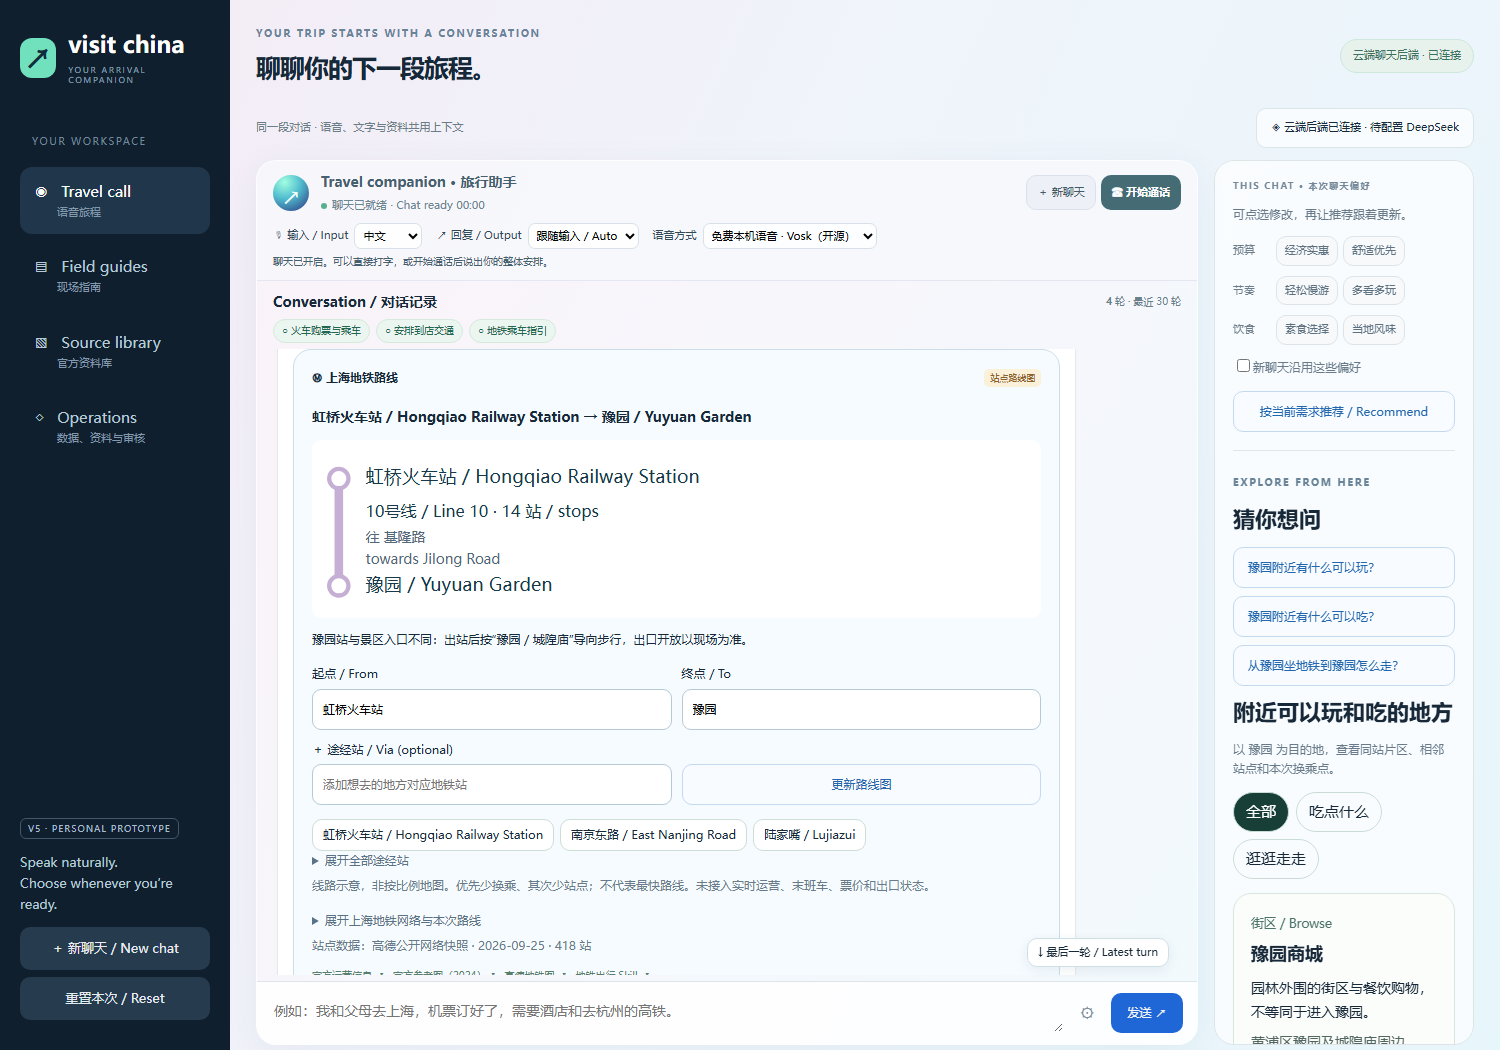
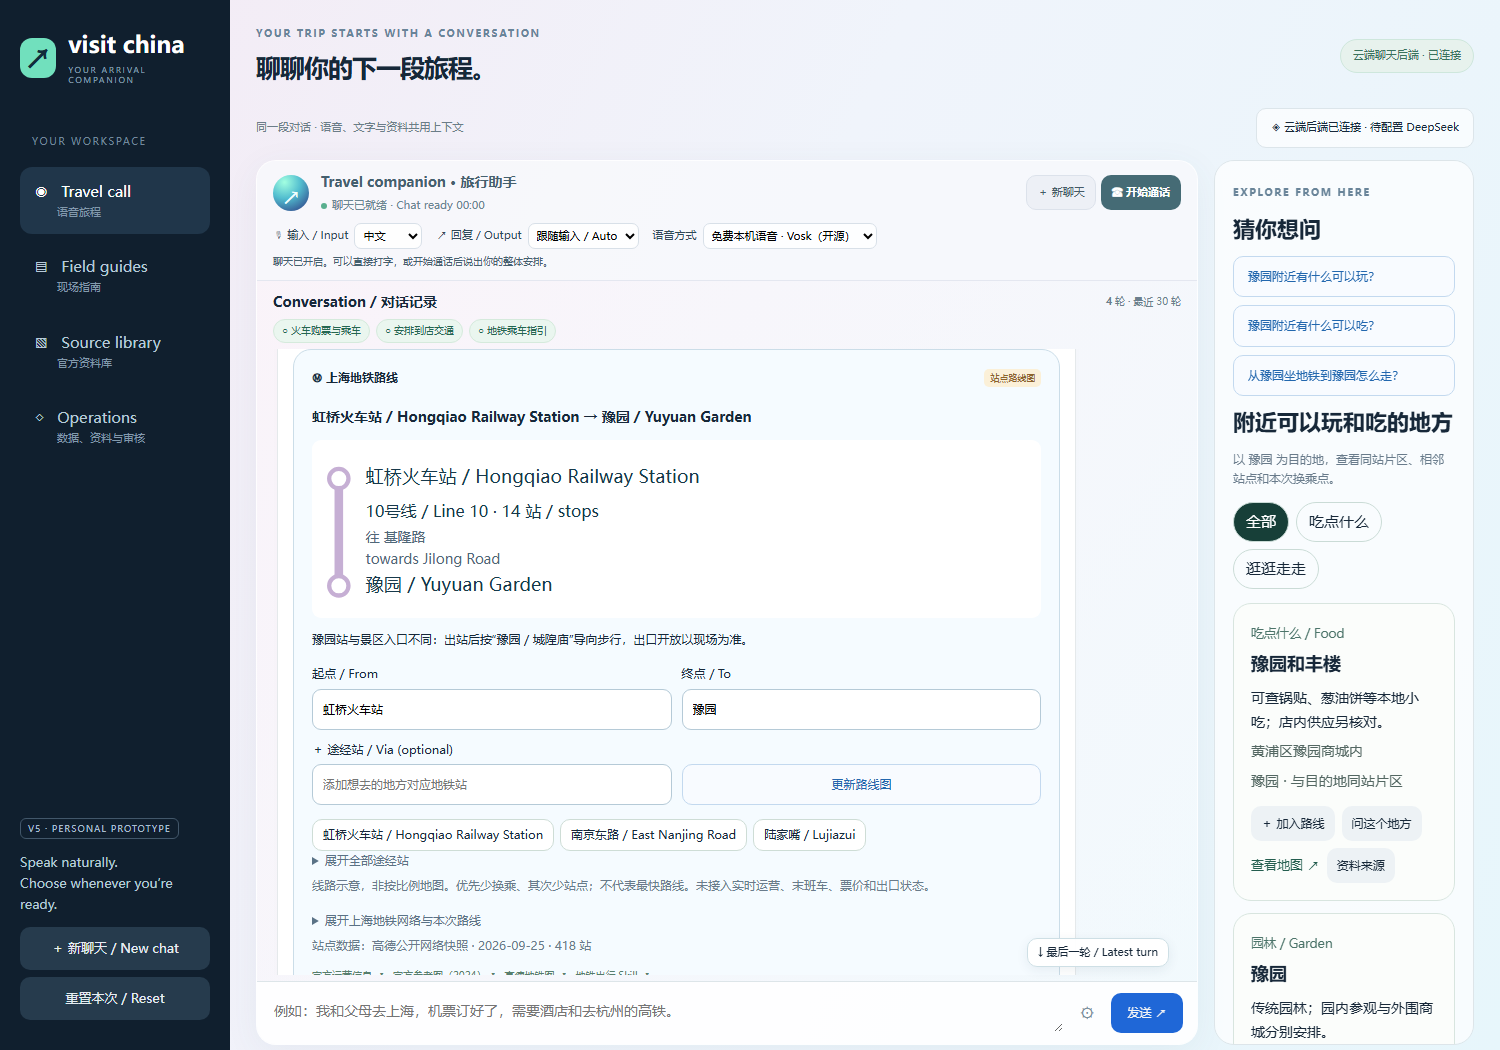
Answer food near named attractions instead of repeating place introductions

Changed region(s): [[0.7973, 0.1524, 0.9813, 1.0]]

diff --git a/v5/discovery-ops.test.js b/v5/discovery-ops.test.js
@@ -2,7 +2,7 @@
 const test=require('node:test'),assert=require('node:assert/strict'),crypto=require('node:crypto'),http=require('node:http');
 const E=require('./engine'),M=require('./metro'),D=require('./discovery'),L=require('./library'),A=require('./assistant'),Q=require('./confidence'),O=require('./operations'),{createOps,catalog}=require('./ops-api'),{verifyGovernment}=require('./source-trust');
 const state=text=>E.apply(E.state({...E.BASE,needsFirst:true}),{type:'text',text});
-test('all 1216 authored and source-adapted cases pass independent route and retrieval invariants',()=>{const r=require('./corpus-eval').evaluateCorpus();assert.ok(r.total>=1000);assert.equal(new Set(r.checks.map(c=>c.input)).size,r.total);assert.equal(r.passed,r.total,JSON.stringify(r.checks.filter(c=>!c.passed)));assert.ok(r.provenance['public-source-adapted']>=100);});
+test('all 1220 authored and source-adapted cases pass independent route and retrieval invariants',()=>{const r=require('./corpus-eval').evaluateCorpus();assert.ok(r.total>=1000);assert.equal(new Set(r.checks.map(c=>c.input)).size,r.total);assert.equal(r.passed,r.total,JSON.stringify(r.checks.filter(c=>!c.passed)));assert.ok(r.provenance['public-source-adapted']>=100);});
 test('catalog exposes all station entities and real referenced places with separate source types',()=>{const r=catalog(O.initial());assert.equal(r.filter(x=>x.recordType==='station').length,418);assert.equal(r.filter(x=>x.recordType==='place').length,19);assert.equal(new Set(r.map(x=>x.id)).size,r.length);assert.equal(L.search('','Shanghai','station').length,418);assert.equal(L.search('','Shanghai','place').length,19);});
 test('nearby destinations are actual covered stations, not arbitrary citywide suggestions',()=>{const route=M.intent('从浦东机场到上海站的地铁怎么做','Shanghai'),s=state('从浦东机场到上海站的地铁怎么做');assert.equal(D.context(s).destination,'上海火车站');const p=D.nearby('上海火车站',route,19,catalog(O.initial()));assert.ok(p.some(x=>x.id==='place-sihang'));assert.ok(p.every(x=>x.stops<=2||x.onRoute));assert.equal(D.nearby('浦东1号2号航站楼',null).length,0);assert.ok(!p.some(x=>x.id==='place-tianzifang'));});
 test('nearby food follow-up preserves destination and never fabricates an opening time',()=>{let s=state('从浦东机场到上海站坐地铁');s=E.apply(s,{type:'text',text:'附近有什么吃的'});const out=D.reply(s.history.at(-1).text,s,catalog(O.initial()));assert.ok(out.sourceIds.includes('place-coffee'));assert.ok(!/营业到|open until|¥/.test(out.text));});
@@ -18,3 +18,5 @@ test('government auto-confirm requires fetched exact text; a government URL or s
 test('admin direct publications retain rollback and concurrent base-version guards',()=>{const s=O.initial(),p=O.propose(s,'admin',{record});O.publishSource(s,p.id,'admin',{mode:'admin-direct',score:80});assert.equal(p.status,'published');assert.equal(p.votes.length,0);assert.ok(catalog(s).some(r=>r.id===p.sourceId));O.rollback(s,p.id,'admin');assert.ok(!catalog(s).some(r=>r.id===p.sourceId));const a=O.propose(s,'admin',{record,sourceId:s.sources[0].id}),b=O.propose(s,'admin',{record,sourceId:s.sources[0].id});O.publishSource(s,a.id,'admin',{mode:'admin-direct'});assert.throws(()=>O.publishSource(s,b.id,'admin',{mode:'admin-direct'}),/STALE_BASE/);});
 test('low confidence review stores bounded route/source material and no raw conversation',()=>{const s=O.initial(),id=O.assessment(s,{text:'private traveler sentence',intent:{kind:'metro'},intentProvider:'deepseek',sourceIds:['sh-metro-map'],tool:{metro:{origin:'浦东1号2号航站楼',destination:'上海火车站'}},confidence:{model:.4,sourceScore:90,requiresReview:true,reasons:['意图自评偏低']}});assert.equal(s.answerAssessments[0].status,'open');assert.ok(!JSON.stringify(s).includes('private traveler sentence'));O.assessmentReview(s,id,'admin','reviewed');assert.equal(s.answerAssessments[0].status,'reviewed');});
 test('HTTP account docs expose names/roles only; admin can publish directly and reviewers cannot impersonate admin',async t=>{const users=Object.fromEntries(['admin','reviewer1'].map(name=>[name,{role:name==='admin'?'admin':'reviewer',salt:'test-salt',hash:crypto.scryptSync('secret-fixture-password','test-salt',32).toString('hex')}]));let saved=O.initial();const store={kind:'test-memory',read:async()=>structuredClone(saved),mutate:async fn=>{const next=structuredClone(saved),result=fn(next);saved=next;return result;}};const server=http.createServer(createOps({env:{OPS_USERS_JSON:JSON.stringify(users),OPS_SESSION_SECRET:'s'.repeat(32)},store,fetcher:async()=>new Response('',{status:404})}));await new Promise(r=>server.listen(0,'127.0.0.1',r));t.after(()=>{server.closeAllConnections();server.close();});const url='http://127.0.0.1:'+server.address().port;let cookie='';async function call(body){const r=await fetch(url+'/api/ops',{method:body?'POST':'GET',headers:{cookie,...(body?{'content-type':'application/json'}:{})},body:body?JSON.stringify(body):undefined});if(r.headers.get('set-cookie'))cookie=r.headers.get('set-cookie').split(';')[0];return{status:r.status,json:await r.json()};}let out=await call();assert.equal(out.json.accounts[0].name,'admin');assert.ok(!/hash|salt|secret-fixture-password/.test(JSON.stringify(out.json)));await call({action:'login',username:'admin',password:'secret-fixture-password'});out=await call({action:'source-submit',record});assert.equal(out.json.status,'published');assert.equal(out.json.requiredApprovals,0);const id=out.json.id;await call({action:'login',username:'reviewer1',password:'secret-fixture-password'});assert.equal((await call({action:'source-publish',id})).status,403);out=await call({action:'source-submit',record:{...record,url:'https://example.com/note'},role:'admin'});assert.equal(out.json.status,'review');assert.ok((await call()).json.evaluationCatalog.total>=1000);});
+
+test('a named attraction in a nearby food question is an anchor, not a request for its introduction',async()=>{for(const text of ['Tell me places to eat near Yuyuan Garden.','豫园附近有什么吃的']){const s=state(text);s.language=text.startsWith('Tell')?'en':'zh';const model={status:()=>({configured:true}),call:async()=>({value:{intent:{kind:'nearby',destination:'Yuyuan Garden',city:'Shanghai'},confidence:.92}})};const out=await A.assist({state:s,model,records:catalog(O.initial())});assert.ok(out.sourceIds.includes('place-hefeng'));assert.ok(!out.sourceIds.includes('place-yuyuan'));}});

diff --git a/v5/discovery.js b/v5/discovery.js
@@ -20,7 +20,7 @@ function nearby(destination,route,limit=6,pool=placeRecords){const to=M.resolve(
 function mapUrl(p){return 'https://uri.amap.com/search?keyword='+encodeURIComponent('上海 '+p.zh+' '+p.address)+'&city=310000&view=map&src=visit-china';}
 function card(p,zh=true){return '<article class="nearby-place" data-place-id="'+p.id+'" data-metric-kind="nearby" data-metric-item="'+p.id+'"><small>'+esc(({food:'吃点什么 / Food',park:'公园 / Park',museum:'博物馆 / Museum',square:'广场 / Square',walk:'漫步 / Walk',art:'艺术 / Art',garden:'园林 / Garden',shopping:'街区 / Browse'})[p.category])+'</small><h3>'+esc(zh?p.zh:p.en)+'</h3><p>'+esc(zh?p.summaryZh:p.summary)+'</p><p class="place-address">'+esc(zh?p.address:p.addressEn)+'</p><p class="place-distance">'+esc(p.station)+' · '+(p.stops===0?(zh?'与目的地同站片区':'Same station area'):p.onRoute&&p.stops>2?(zh?'本次换乘点附近':'Near a transfer on this route'):(zh?'距目的地 '+p.stops+' 个地铁站间区段':'About '+p.stops+' metro stop segments from destination'))+'</p><div class="place-actions"><button class="light" data-place-route="'+p.id+'">'+(zh?'＋ 加入路线':'＋ Add to route')+'</button><button class="light" data-place-ask="'+p.id+'">'+(zh?'问这个地方':'Ask about this place')+'</button><a data-product-kind="nearby" data-product-item="'+p.id+'" href="'+mapUrl(p)+'" target="_blank" rel="noopener noreferrer">'+(zh?'查看地图 ↗':'Map ↗')+'</a><button class="light" data-source-detail="'+p.id+'">'+(zh?'资料来源':'Source')+'</button></div></article>';}
 function questions(state){const c=context(state),zh=state.language==='zh',to=c.destination;if(!to)return zh?['我在人民广场，附近有什么可以逛的？','从浦东机场到上海火车站的地铁怎么坐？']:['What can I visit near People’s Square?','Metro from Pudong Airport to Shanghai Railway Station?'];return zh?[to+'附近有什么可以玩？',to+'附近有什么可以吃？','从'+to+'坐地铁到豫园怎么走？']:[`What can I visit near ${to}?`,`Where can I eat near ${to}?`,`Metro from ${to} to Yuyuan?`];}
-function reply(text,state,pool=placeRecords){const ps=mentioned(text);if(ps.length===1&&!/地铁|怎么去|怎么走|metro|route|how.{0,8}get/i.test(text)){const p=ps[0],r=pool.find(r=>r.id===p.id);if(r&&!r.publicationHash&&r.active!==false&&r.reviewedAt&&Date.now()-Date.parse(r.reviewedAt)<=Number(r.reviewDays||14)*86400000)return{kind:'nearby',text:state.language==='zh'?p.zh+'：'+p.summaryZh+' 地址：'+p.address+'。可从'+p.station+'站继续步行导航；营业、预约和票价请看原文。':p.en+': '+p.summary+' Address: '+p.addressEn+'. Use '+p.station+' as a metro anchor and check walking directions, opening and booking details.',sourceIds:[p.id],places:[p.id]};}
+function reply(text,state,pool=placeRecords){const ps=mentioned(text);if(ps.length===1&&!/附近|周边|nearby|near\s|around|地铁|怎么去|怎么走|metro|route|how.{0,8}get/i.test(text)){const p=ps[0],r=pool.find(r=>r.id===p.id);if(r&&!r.publicationHash&&r.active!==false&&r.reviewedAt&&Date.now()-Date.parse(r.reviewedAt)<=Number(r.reviewDays||14)*86400000)return{kind:'nearby',text:state.language==='zh'?p.zh+'：'+p.summaryZh+' 地址：'+p.address+'。可从'+p.station+'站继续步行导航；营业、预约和票价请看原文。':p.en+': '+p.summary+' Address: '+p.addressEn+'. Use '+p.station+' as a metro anchor and check walking directions, opening and booking details.',sourceIds:[p.id],places:[p.id]};}
  if(!/附近|周边|景点|广场|好玩|吃饭|美食|推荐.{0,8}玩|nearby|near |around|where to eat|places to|sightsee/i.test(text))return null;const c=context(state),food=/吃|美食|饭店|餐厅|food|eat|restaurant/i.test(text),all=nearby(c.destination,c.route,19,pool),p=all.filter(p=>!food||p.category==='food').slice(0,3);const zh=state.language==='zh';return{kind:'nearby',text:!c.destination?(zh?'你想看哪个地铁站或景点附近？告诉我地点，我会按实际收录地点推荐。':'Which station or attraction should I search around?'):!p.length?(zh?'当前资料库还没有'+c.destination+'附近已核对的'+(food?'餐饮':'去处')+'，我不会把其他区域当成附近。可以换个地点，或在资料库补充来源。':'No reviewed '+(food?'food places':'places')+' are currently covered near '+c.destination+'. Choose another area or add a source.'):(zh?'按'+c.destination+'及邻近站点，可以考虑：':'Around '+c.destination+' and nearby stops, consider: ')+p.map(x=>zh?x.zh+'（'+x.station+'）':x.en+' ('+x.station+')').join('；')+(zh?'。下方和右侧可查看真实地址、来源并加入路线。步行距离及当前营业请打开地图核对。':'. View addresses, sources and add a stop below or on the right. Check walking directions and current opening on the map.'),sourceIds:p.map(p=>p.id),places:p.map(p=>p.id)};
 }
 return{records,placeRecords,stationRecords,stationId,places:P.places,context,nearby,card,questions,reply,mentioned,stationForPlace,mapUrl};

diff --git a/v5/discovery_browser_test.py b/v5/discovery_browser_test.py
@@ -41,8 +41,8 @@ try:
   for key,value in fields.items():page.locator('#ops-source-form [name='+key+']').fill(value)
   page.locator('#ops-source-form button').click();expect(page.locator('#ops-source-note')).to_contain_text('已发布');page.locator('#ops-source-close').click();page.locator('[data-ops-tab=reviews]').click();expect(page.locator('#ops-content')).to_contain_text('管理员直接发布');check('administrator submission publishes immediately and exposes review materials')
   page.locator('.ops-review .ops-materials summary').last.click();expect(page.locator('.ops-review .ops-materials').last).to_contain_text('admin-direct');check('publication proof and base-version material visible')
-  page.locator('[data-ops-tab=evaluation]').click();expect(page.locator('#ops-content')).to_contain_text('1216');expect(page.locator('#ops-content')).to_contain_text('184');check('loop shows provenance, corpus version and downloadable full cases')
-  page.locator('#ops-run-eval').click();expect(page.locator('#ops-content')).to_contain_text('1226 / 1226',timeout=30000);check('entire corpus and historical scenarios run from Operations')
+  page.locator('[data-ops-tab=evaluation]').click();expect(page.locator('#ops-content')).to_contain_text('1220');expect(page.locator('#ops-content')).to_contain_text('184');check('loop shows provenance, corpus version and downloadable full cases')
+  page.locator('#ops-run-eval').click();expect(page.locator('#ops-content')).to_contain_text('1230 / 1230',timeout=30000);check('entire corpus and historical scenarios run from Operations')
   page.screenshot(path=str(OUT/'operations-loop-desktop.png'),full_page=True)
   page.locator('#ops-signout').click();page.locator('#ops-close').click();page.locator('#nav-call').click();page.locator('#new-chat-top').click();expect(page.locator('#turn-count')).to_have_text('0');check('new chat removes previous destination and nearby cards',page.locator('#nearby-places .nearby-place').count()==0)
   page.set_viewport_size({'width':390,'height':844});send('从浦东机场到上海站的地铁怎么做');check('mobile body does not overflow',page.evaluate('document.documentElement.scrollWidth<=innerWidth+1'));page.screenshot(path=str(OUT/'metro-nearby-mobile.png'),full_page=True)

diff --git a/v5/operations_browser_test.py b/v5/operations_browser_test.py
@@ -54,7 +54,7 @@ try:
   page.screenshot(path=str(OUT/'V5_7_Operations_Dashboard.png'))
   page.locator('[data-ops-tab="sources"]').click();check('source refresh and proposals accessible',page.locator('#ops-refresh-sources').is_enabled())
   page.locator('[data-ops-tab="reviews"]').click();expect(page.locator('#ops-content')).to_contain_text('五个不同审核账号')
-  page.locator('[data-ops-tab="evaluation"]').click();page.locator('#ops-run-eval').click();expect(page.locator('#ops-content')).to_contain_text('1226 / 1226',timeout=30000)
+  page.locator('[data-ops-tab="evaluation"]').click();page.locator('#ops-run-eval').click();expect(page.locator('#ops-content')).to_contain_text('1230 / 1230',timeout=30000)
   check('simulated scenario evaluation persisted',page.locator('#ops-content').inner_text().find('上海到杭州的高铁')>=0)
   if URL.startswith('http://127.'):
    page.locator('[data-ops-tab="sources"]').click();page.locator('#ops-source-add').click()

diff --git a/docs/V5_9_DISCOVERY_AND_OPERATIONS.md b/docs/V5_9_DISCOVERY_AND_OPERATIONS.md
@@ -41,17 +41,17 @@
 
 ## 测试集和结果口径
 
-`data/evaluation/v5.9-cases.json` 共 **1,216 条**，其中 **184 条依据公开来源改写，1,032 条自行编写**，均非真实用户日志。
+`data/evaluation/v5.9-cases.json` 共 **1,220 条**，其中 **184 条依据公开来源改写，1,036 条自行编写**，均非真实用户日志。
 
-覆盖 856 条地铁路线、12 条市域铁路边界、152 条地点资料、40 条车费、48 条铁路、30 条终点纠正、40 条途经点、20 条误触、6 条信息缺失和12条附近需求。期待值、来源 URL 和合成标记逐条保留，可在 Loop 下载。
+覆盖 856 条地铁路线、12 条市域铁路边界、152 条地点资料、40 条车费、48 条铁路、30 条终点纠正、40 条途经点、20 条误触、6 条信息缺失和16条附近需求。期待值、来源 URL 和合成标记逐条保留，可在 Loop 下载。
 
-本地回归检查不只看意图标签，还核对起终点、换乘连续性、真实线路相邻关系、途经点、指定关键路线及资料 ID。加上原有 10 条场景，Operations 一次运行 **1,226 条**。评测记录保存失败项和通过样例，完整输入可下载。
+本地回归检查不只看意图标签，还核对起终点、换乘连续性、真实线路相邻关系、途经点、指定关键路线及资料 ID。加上原有 10 条场景，Operations 一次运行 **1,230 条**。评测记录保存失败项和通过样例，完整输入可下载。
 
-首轮 1,179/1,216。问题包括城市名误当站名、地点词抢占路线、同名英文站与测试输入歧义。修复后 1,216/1,216；对英文同名站补充线路限定，并另测未限定时不猜站。保留初次结果，未把失败删除来抬高通过率。
+首轮 1,179/1,216。问题包括城市名误当站名、地点词抢占路线、同名英文站与测试输入歧义。修复后 1,216/1,216；对英文同名站补充线路限定，并另测未限定时不猜站。保留初次结果，未把失败删除来抬高通过率。真实 DeepSeek 候选验收另发现“豫园附近吃什么”被地点介绍抢占；修复后追加 4 条中英文测试，最终 1,220/1,220。
 
-**这不是 1,216 次真实 DeepSeek 调用，也不是模型训练或模型准确率。** 真实模型另做小批量上线验收；CI 使用确定性回归及受控模型接口。
+**这不是 1,220 次真实 DeepSeek 调用，也不是模型训练或模型准确率。** 真实模型另做小批量上线验收；CI 使用确定性回归及受控模型接口。
 
-程序/API 218 项通过；浏览器历史回归 125 项通过，新用户路径 20 项通过。覆盖原有语音/点选、取消过期回答、上下文、低电量、鉴权、版本与回滚保护。真实模型及正式站验收结果见本次交付报告。
+程序/API 219 项通过；浏览器历史回归 125 项通过，新用户路径 20 项通过。覆盖原有语音/点选、取消过期回答、上下文、低电量、鉴权、版本与回滚保护。真实模型及正式站验收结果见本次交付报告。
 
 ## 公开来源举例
 
